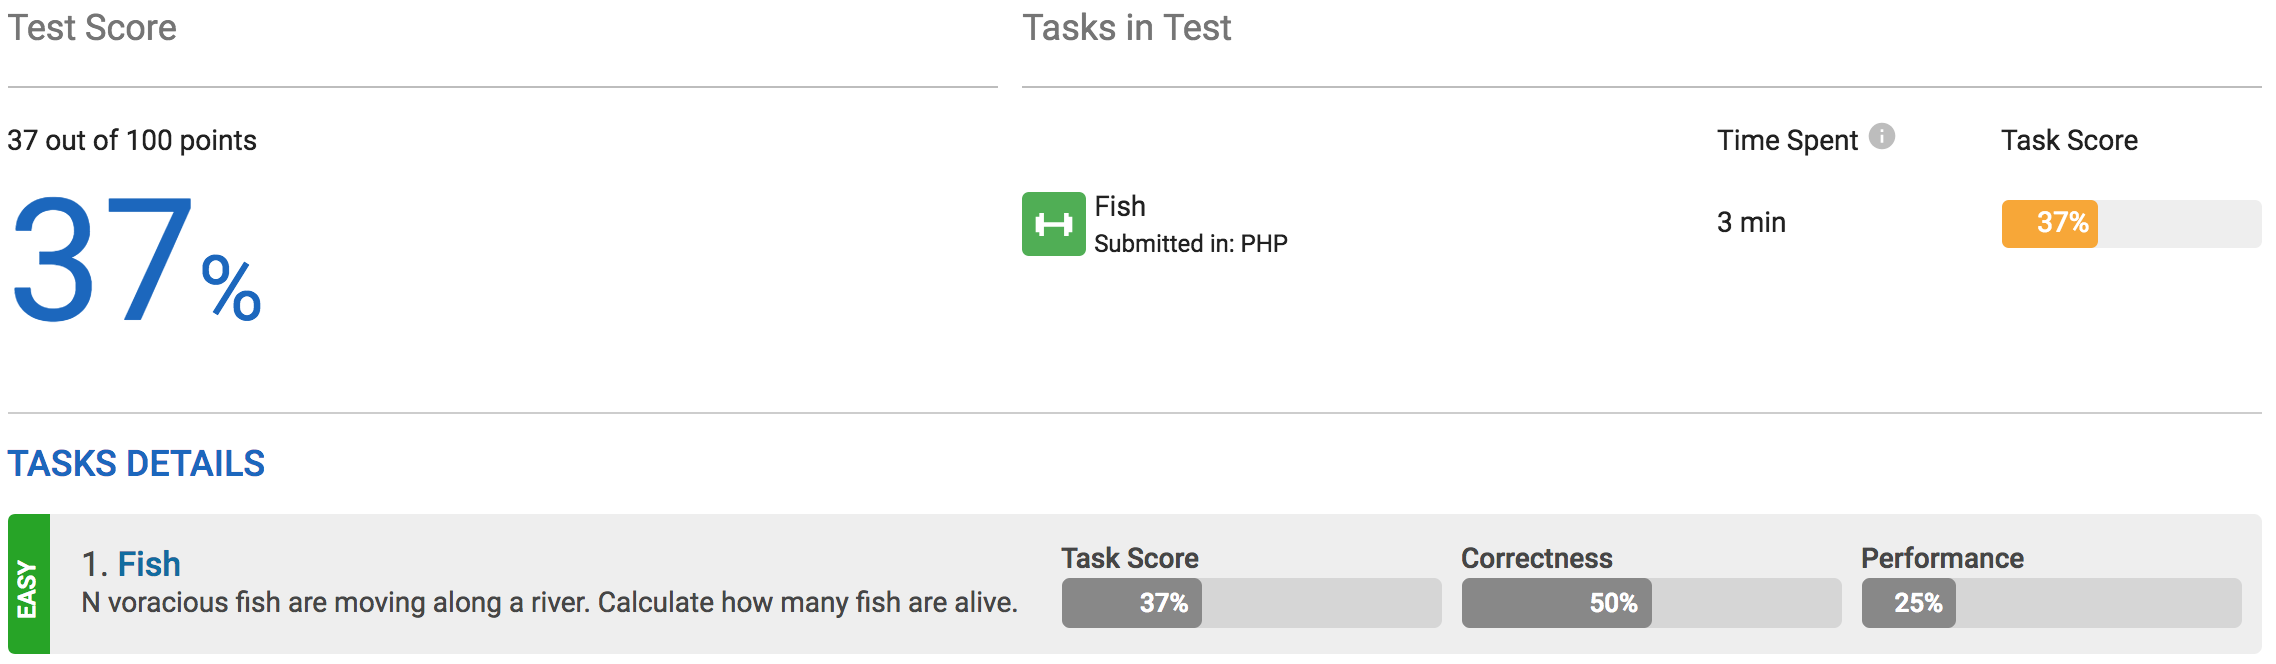
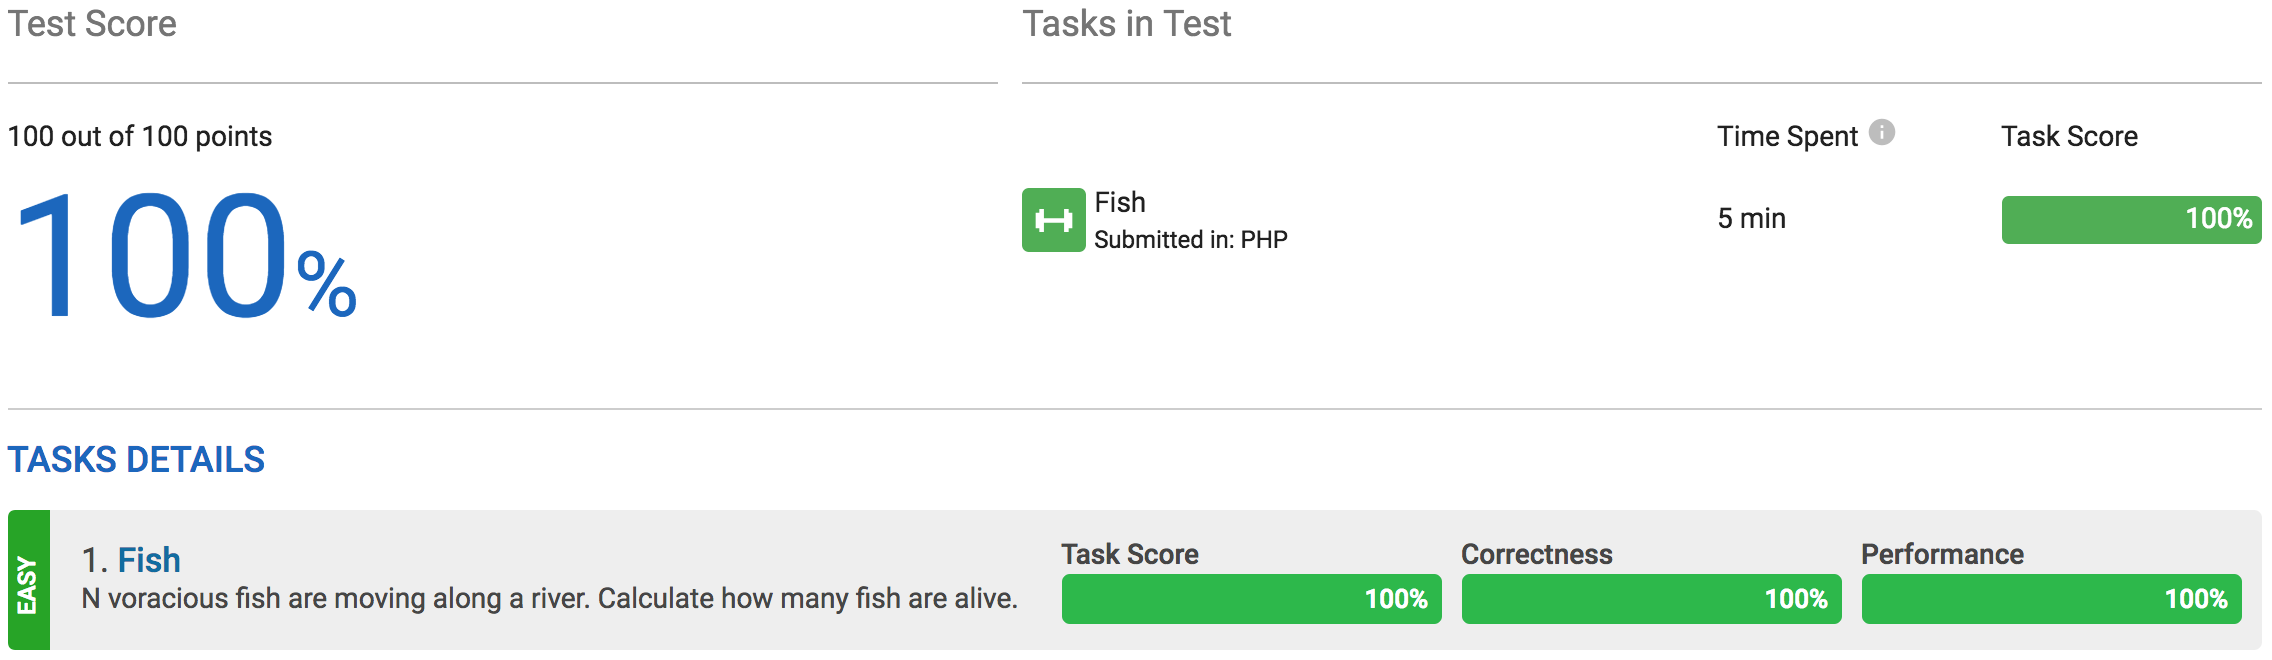
Awesome Completed for Fish of Lesson_7_StacksAndQueues by Stack.

diff --git a/Lessons/7_StacksAndQueues/Tasks_Fish/Answer.php b/Lessons/7_StacksAndQueues/Tasks_Fish/Answer.php
@@ -33,7 +33,7 @@ function solution($A, $B) {
 
             $last = $tmpLength - 1;
 
-            if ($tmpArray[$last][1] === 0)
+            if ($tmpArray[$last][1] === 0 || $tmpArray[$last][1] === $B[$i])
             {
                 array_push($tmpArray, [$A[$i], $B[$i]]);
                 $tmpLength++;
@@ -47,18 +47,14 @@ function solution($A, $B) {
                     return 0;
                 }
 
-                if ($tmpArray[$last][0] < $A[$i])
+                if ($tmpArray[$last][0] > $A[$i])
                 {
-                    array_pop($tmpArray);
-                    array_push($tmpArray, [$A[$i], $B[$i]]);
+                    break;
                 }
 
-                break;
+                array_pop($tmpArray);
+                $tmpLength--;
             }
-
-            array_push($tmpArray, [$A[$i], $B[$i]]);
-            $tmpLength++;
-            break;
         }
     }
 
